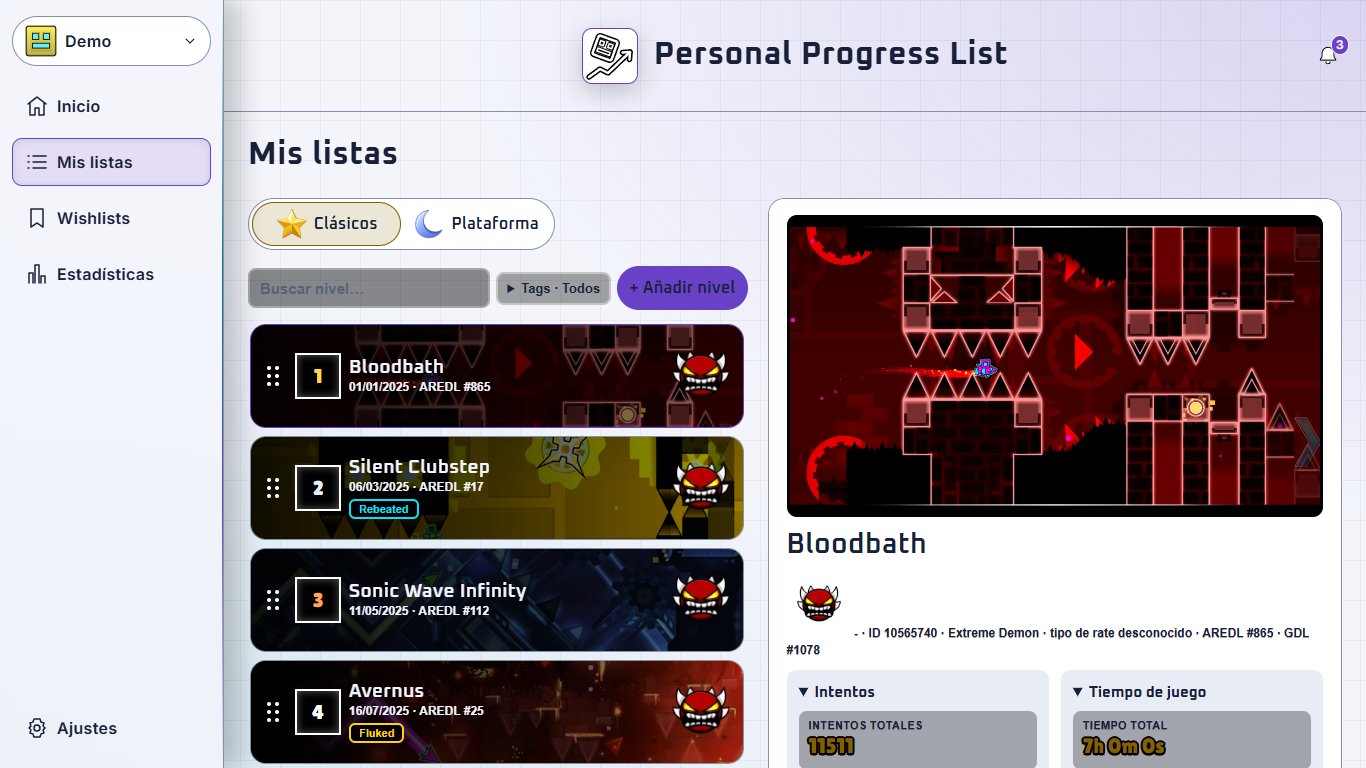
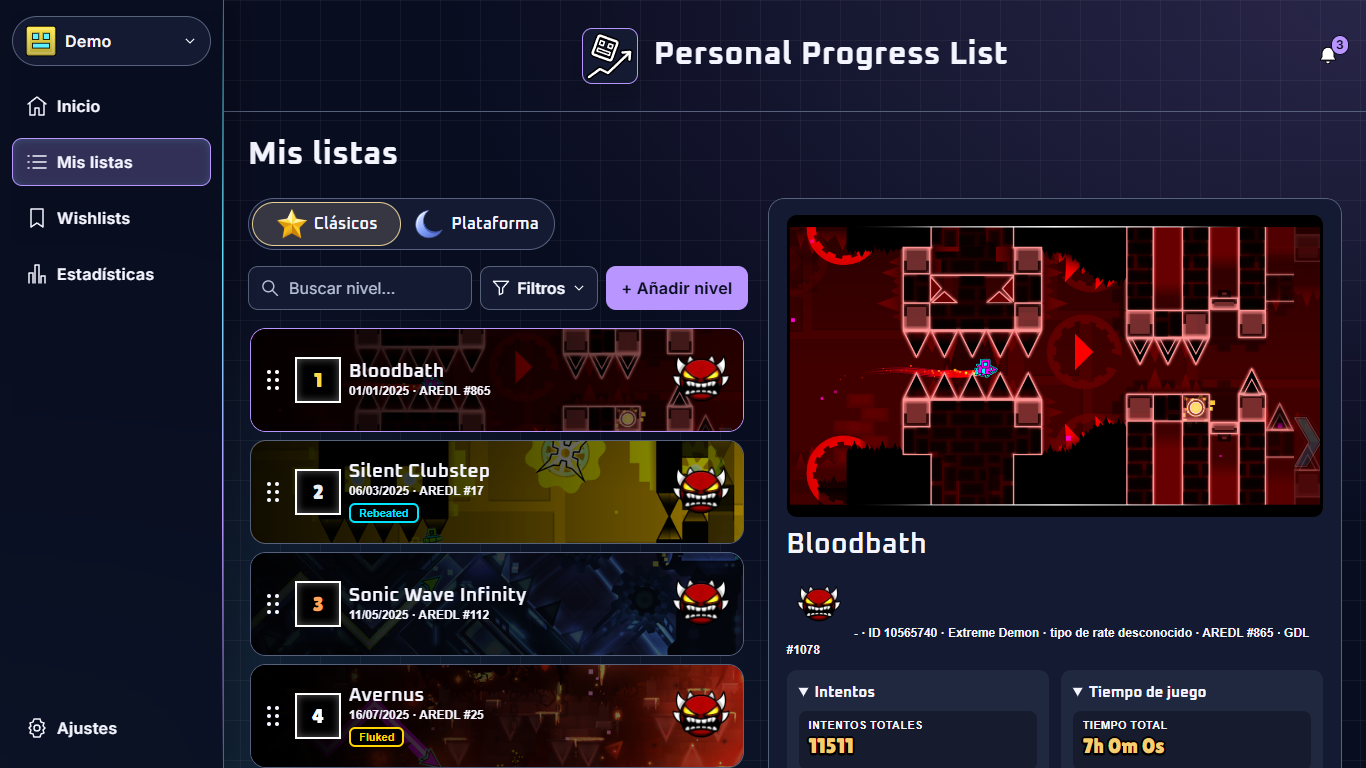
Complete the themed search and filter toolbar for My Lists

diff --git a/js/i18n.js b/js/i18n.js
@@ -94,7 +94,7 @@ const TRANSLATIONS = {
         compare: 'Comparar', compareClose: 'Cerrar comparación', compareLevelOne: 'Nivel 1', compareLevelTwo: 'Nivel 2', compareSearch: 'Nombre o ID', compareClear: 'Quitar {level}',
         compareHint: 'Elige dos niveles de la lista o búscalos aquí.', compareWaiting: 'Elige el segundo nivel para compararlos.',
         timelineAttempts: 'Intentos por nivel', timelinePlaytime: 'Tiempo de juego por nivel', timelineMetric: 'Métrica de la línea de tiempo',
-        classic: 'Clásicos', platform: 'Plataforma', stats: 'Estadísticas', add: '+ Añadir', search: 'Buscar nivel…', unplaced: 'Sin colocar', pending: 'Pendiente de ubicación', name: 'Nombre', lid: 'ID del nivel', creator: 'Creador (publisher)', diff: 'Dificultad', pos: 'Posición en mi top', availablePositions: 'Posiciones disponibles: {min}–{max}', attC: 'Intentos en copia', attN: 'Intentos en normal', attT: 'Intentos totales', tN: 'Tiempo normal', tP: 'Tiempo práctica', tPC: 'Tiempo en copia o StartPos', tT: 'Tiempo total', date: 'Fecha de completado', link: 'Video (YouTube)', enj: 'Disfrutabilidad', lik: 'Nivel de agrado', tags: 'Tags', notes: 'Notas', deaths: 'Muertes por porcentaje', best: 'Mejor % antes de pasarlo', save: 'Guardar', del: 'Eliminar', edit: 'Editar', close: 'Cerrar', lv: 'Niveles', hrs: 'Horas', avg: 'Intentos por nivel', most: 'Más intentos', byD: 'Por dificultad', byY: 'Completados por año', tl: 'Línea de tiempo', kind: 'Lista', confirm: '¿Eliminar este nivel?', emptyListTitle: 'Aún no hay niveles', emptyListText: 'Añade el primer nivel que hayas superado para empezar tu ranking.', dh: 'Muertes por porcentaje', found: '✓ Encontrado en la lista', dU: 'muertes', att: 'intentos', tagsT: 'Gestionar tags', by: 'por', gdlTop: 'Top en Global Demonlist', ap: 'Top en AREDL', apPlatform: 'Top en AREPL', s1: 'Información del nivel', s2: 'Posiciones', s3: 'Intentos y tiempo', s4: 'Completado', s5: 'Valoración', s6: 'Notas y muertes', newTag: 'Nuevo tag', confirmTag: '¿Quitar este tag de todos los niveles?',
+        classic: 'Clásicos', platform: 'Plataforma', stats: 'Estadísticas', add: '+ Añadir', listFilters: 'Filtros', search: 'Buscar nivel…', unplaced: 'Sin colocar', pending: 'Pendiente de ubicación', name: 'Nombre', lid: 'ID del nivel', creator: 'Creador (publisher)', diff: 'Dificultad', pos: 'Posición en mi top', availablePositions: 'Posiciones disponibles: {min}–{max}', attC: 'Intentos en copia', attN: 'Intentos en normal', attT: 'Intentos totales', tN: 'Tiempo normal', tP: 'Tiempo práctica', tPC: 'Tiempo en copia o StartPos', tT: 'Tiempo total', date: 'Fecha de completado', link: 'Video (YouTube)', enj: 'Disfrutabilidad', lik: 'Nivel de agrado', tags: 'Tags', notes: 'Notas', deaths: 'Muertes por porcentaje', best: 'Mejor % antes de pasarlo', save: 'Guardar', del: 'Eliminar', edit: 'Editar', close: 'Cerrar', lv: 'Niveles', hrs: 'Horas', avg: 'Intentos por nivel', most: 'Más intentos', byD: 'Por dificultad', byY: 'Completados por año', tl: 'Línea de tiempo', kind: 'Lista', confirm: '¿Eliminar este nivel?', emptyListTitle: 'Aún no hay niveles', emptyListText: 'Añade el primer nivel que hayas superado para empezar tu ranking.', dh: 'Muertes por porcentaje', found: '✓ Encontrado en la lista', dU: 'muertes', att: 'intentos', tagsT: 'Gestionar tags', by: 'por', gdlTop: 'Top en Global Demonlist', ap: 'Top en AREDL', apPlatform: 'Top en AREPL', s1: 'Información del nivel', s2: 'Posiciones', s3: 'Intentos y tiempo', s4: 'Completado', s5: 'Valoración', s6: 'Notas y muertes', newTag: 'Nuevo tag', confirmTag: '¿Quitar este tag de todos los niveles?',
         didYouMean: '¿Quisiste decir:', wish: 'Wishlists', st_todo: 'Sin empezar', st_prog: 'En progreso', st_done: 'Completado', first: 'Primeros pasos', pname: 'Nombre del perfil', bell: 'Notificaciones', nonot: 'Todo en orden ✓', aUnp: 'Sin colocar', aWish: 'Completado en wishlist, falta añadirlo a tu lista', aNoId: 'Niveles sin ID (sin miniatura)', wnew: '+ Nueva wishlist', wren: 'Renombrar', wdelL: 'Eliminar lista', wname: 'Nombre de la wishlist', addLevel: '+ Añadir nivel', emptyWishTitle: 'Tu wishlist está vacía', emptyWishText: 'Añade los niveles que quieres jugar y sigue aquí tu progreso.', tgs: 'Buscar tag…', sa: 'Intentos', sT: 'Tiempo de juego', sh: 'Tags y notas', noAdditionalDetails: 'Sin datos adicionales', wconf: '¿Eliminar?', noWL: 'Aún no hay wishlists',
         theme: 'Tema de color', status: 'Estado', color: 'Color', filterTag: 'Filtrar por tag: {t}',
         home: 'Inicio', lists: 'Mis listas', listEmpty: 'Todavía no hay niveles', viewWishlists: 'Ver todas', viewStats: 'Ver estadísticas completas',
@@ -208,7 +208,7 @@ const TRANSLATIONS = {
         compare: 'Compare', compareClose: 'Close comparison', compareLevelOne: 'Level 1', compareLevelTwo: 'Level 2', compareSearch: 'Name or ID', compareClear: 'Clear {level}',
         compareHint: 'Pick two levels from the list or search for them here.', compareWaiting: 'Pick a second level to compare.',
         timelineAttempts: 'Attempts per level', timelinePlaytime: 'Playtime per level', timelineMetric: 'Timeline metric',
-        classic: 'Classic', platform: 'Platformer', stats: 'Statistics', add: '+ Add', search: 'Search level…', unplaced: 'Unplaced', pending: 'Awaiting placement', name: 'Name', lid: 'Level ID', creator: 'Creator (publisher)', diff: 'Difficulty', pos: 'Position in my top', availablePositions: 'Available positions: {min}–{max}', attC: 'Copy attempts', attN: 'Normal attempts', attT: 'Total attempts', tN: 'Normal time', tP: 'Practice time', tPC: 'Copy or StartPos playtime', tT: 'Total time', date: 'Completion date', link: 'Video (YouTube)', enj: 'Enjoyment', lik: 'Level appeal', tags: 'Tags', notes: 'Notes', deaths: 'Deaths per percent', best: 'Best % before beating it', save: 'Save', del: 'Delete', edit: 'Edit', close: 'Close', lv: 'Levels', hrs: 'Hours', avg: 'Attempts per level', most: 'Most attempts', byD: 'By difficulty', byY: 'Completed per year', tl: 'Timeline', kind: 'List', confirm: 'Delete this level?', emptyListTitle: 'No levels yet', emptyListText: 'Add the first level you have beaten to start your ranking.', dh: 'Deaths per percent', found: '✓ Found in the list', dU: 'deaths', att: 'attempts', tagsT: 'Manage tags', by: 'by', gdlTop: 'Top in Global Demonlist', ap: 'Top in AREDL', apPlatform: 'Top in AREPL', s1: 'Level info', s2: 'Rankings', s3: 'Attempts & time', s4: 'Completion', s5: 'Rating', s6: 'Notes & deaths', newTag: 'New tag', confirmTag: 'Remove this tag from all levels?',
+        classic: 'Classic', platform: 'Platformer', stats: 'Statistics', add: '+ Add', listFilters: 'Filters', search: 'Search level…', unplaced: 'Unplaced', pending: 'Awaiting placement', name: 'Name', lid: 'Level ID', creator: 'Creator (publisher)', diff: 'Difficulty', pos: 'Position in my top', availablePositions: 'Available positions: {min}–{max}', attC: 'Copy attempts', attN: 'Normal attempts', attT: 'Total attempts', tN: 'Normal time', tP: 'Practice time', tPC: 'Copy or StartPos playtime', tT: 'Total time', date: 'Completion date', link: 'Video (YouTube)', enj: 'Enjoyment', lik: 'Level appeal', tags: 'Tags', notes: 'Notes', deaths: 'Deaths per percent', best: 'Best % before beating it', save: 'Save', del: 'Delete', edit: 'Edit', close: 'Close', lv: 'Levels', hrs: 'Hours', avg: 'Attempts per level', most: 'Most attempts', byD: 'By difficulty', byY: 'Completed per year', tl: 'Timeline', kind: 'List', confirm: 'Delete this level?', emptyListTitle: 'No levels yet', emptyListText: 'Add the first level you have beaten to start your ranking.', dh: 'Deaths per percent', found: '✓ Found in the list', dU: 'deaths', att: 'attempts', tagsT: 'Manage tags', by: 'by', gdlTop: 'Top in Global Demonlist', ap: 'Top in AREDL', apPlatform: 'Top in AREPL', s1: 'Level info', s2: 'Rankings', s3: 'Attempts & time', s4: 'Completion', s5: 'Rating', s6: 'Notes & deaths', newTag: 'New tag', confirmTag: 'Remove this tag from all levels?',
         didYouMean: 'Did you mean:', wish: 'Wishlists', st_todo: 'Not started', st_prog: 'In progress', st_done: 'Completed', first: 'First steps', pname: 'Profile name', bell: 'Notifications', nonot: 'All good ✓', aUnp: 'Unplaced', aWish: 'Completed in wishlist, not yet added to your list', aNoId: 'Levels without ID (no thumbnail)', wnew: '+ New wishlist', wren: 'Rename', wdelL: 'Delete list', wname: 'Wishlist name', addLevel: '+ Add level', emptyWishTitle: 'Your wishlist is empty', emptyWishText: 'Add the levels you want to play and track your progress here.', tgs: 'Search tag…', sa: 'Attempts', sT: 'Play time', sh: 'Tags & notes', noAdditionalDetails: 'No additional details', wconf: 'Delete?', noWL: 'No wishlists yet',
         theme: 'Colour theme', status: 'Status', color: 'Color', filterTag: 'Filter by tag: {t}',
         home: 'Home', lists: 'My lists', listEmpty: 'No levels yet', viewWishlists: 'View all', viewStats: 'View full statistics',

diff --git a/js/components/levels.js b/js/components/levels.js
@@ -167,7 +167,7 @@ function levelFromForm(form) {
     };
 }
 
-const listTagSummary = () => t('tags') + ' · ' + (!ui.tagFilter.length ? t('f_all') : ui.tagFilter.length == 1 ? ui.tagFilter[0] : ui.tagFilter.length);
+const listTagSummary = () => !ui.tagFilter.length ? t('listFilters') : t('listFilters') + ' · ' + (ui.tagFilter.length == 1 ? ui.tagFilter[0] : ui.tagFilter.length);
 
 /** Updates the tag dropdown and its clear button in place, so an open dropdown keeps its state and focus. */
 function renderListTagFilters() {
@@ -175,7 +175,7 @@ function renderListTagFilters() {
     if (!dropdown)
         return;
     dropdown.querySelectorAll('input').forEach(input => input.checked = ui.tagFilter.includes(input.value));
-    dropdown.querySelector('summary').textContent = listTagSummary();
+    dropdown.querySelector('.filter-label').textContent = listTagSummary();
     qs('.lh [data-act=ct]').hidden = !ui.tagFilter.length;
 }
 
@@ -189,7 +189,7 @@ function setListTagFilter() {
 function lcol() {
     const options = listTagOptions(profile.levels.filter(level => level.kind == ui.tab), ui.tagFilter);
     const modes = ['classic', 'platform'].map(kind => `<button type=button data-act=tab data-v=${kind} aria-pressed=${ui.tab == kind}${ui.tab == kind ? ' disabled' : ''}><img src="assets/modes/${kind}.svg" alt="" width=32 height=32> ${t(kind)}</button>`).join('');
-    return `<div class=mode-switch role=group aria-label="${t('lists')}">${modes}</div><div class=lh><input id=q type=search placeholder="${t('search')}" aria-label="${t('search')}" value="${escapeHtml(ui.q)}">${options.length ? `<details class=ms><summary>${escapeHtml(listTagSummary())}</summary><div class=msp>${options.map(name => `<label><input type=checkbox name=tagf value="${escapeHtml(name)}"${ui.tagFilter.includes(name) ? ' checked' : ''}><span class=chip style="${tagStyle(name)}">${escapeHtml(name)}</span></label>`).join('')}</div></details><button type=button class="xs dg" data-act=ct aria-label="${t('clearTags')}" title="${t('clearTags')}"${ui.tagFilter.length ? '' : ' hidden'}>${ICONS.del}</button>` : ''}${canEdit() ? `<button type=button class=list-add data-act=add>+ ${t('palAdd')}</button>` : ''}</div><div id=lw>${list()}</div>`;
+    return `<div class=mode-switch role=group aria-label="${t('lists')}">${modes}</div><div class=lh><label class=list-search>${ICONS.listSearch}<input id=q type=search placeholder="${t('search')}" aria-label="${t('search')}" value="${escapeHtml(ui.q)}"></label>${options.length ? `<details class=ms><summary>${ICONS.listFilter}<span class=filter-label>${escapeHtml(listTagSummary())}</span>${ICONS.chevronDown}</summary><div class=msp>${options.map(name => `<label><input type=checkbox name=tagf value="${escapeHtml(name)}"${ui.tagFilter.includes(name) ? ' checked' : ''}><i class=tag-dot aria-hidden=true style="background:${tagColor(name)}"></i><span class=filter-label>${escapeHtml(name)}</span></label>`).join('')}</div></details><button type=button class=list-clear data-act=ct aria-label="${t('clearTags')}" title="${t('clearTags')}"${ui.tagFilter.length ? '' : ' hidden'}>${ICONS.listClear}</button>` : ''}${canEdit() ? `<button type=button class=list-add data-act=add>+ ${t('palAdd')}</button>` : ''}</div><div id=lw>${list()}</div>`;
 }
 
 /** Right column with level details, an editing form or an empty prompt. */

diff --git a/css/styles.css b/css/styles.css
@@ -837,7 +837,7 @@ dialog.modal::backdrop {
   background-image: none;
 }
 
-.list-surface :is(.nm, h2, .mode-switch button, .list-add, .level-section summary) {
+.list-surface :is(.nm, h2, .mode-switch button, .level-section summary) {
   color: inherit;
   font-family: var(--font-display);
   -webkit-text-stroke: 0;
@@ -974,28 +974,91 @@ dialog.modal::backdrop {
   position: relative;
   display: flex;
   flex-wrap: wrap;
+  gap: 8px;
   align-items: center;
-  gap: 6px;
-  margin-bottom: 12px;
+  margin-bottom: var(--space-16);
+  font-family: var(--font-ui);
 }
 
-.lh #q {
+.lh .list-search {
+  position: relative;
   flex: 1 1 160px;
-  min-width: 160px;
+  min-width: 0;
+  margin: 0;
 }
 
-.lh .ms {
-  max-width: min(220px, calc(100% - 40px));
+.lh .list-search > svg {
+  position: absolute;
+  left: 12px;
+  top: 50%;
+  transform: translateY(-50%);
+  pointer-events: none;
+  color: var(--color-text-muted);
 }
 
-.lh .ms summary, .lh .msp .chip {
-  overflow: hidden;
-  text-overflow: ellipsis;
-  white-space: nowrap;
+.lh .i { width: 20px; height: 20px; flex: none; }
+
+.lh #q, .lh .ms summary, .lh .list-clear, .lh .list-add {
+  box-sizing: border-box;
+  min-height: 44px;
+  margin: 0;
+  border: 1px solid var(--color-border);
+  border-radius: var(--radius-control);
+  background: var(--color-surface);
+  color: var(--color-text);
+  font: 600 1rem/1.25 var(--font-ui);
+  -webkit-text-stroke: 0;
+  box-shadow: none;
 }
 
-.lh .msp .chip {
-  display: block;
+.lh #q { width: 100%; padding: 8px 12px 8px 40px; font-weight: 400; }
+.lh #q::placeholder { color: var(--color-text-muted); opacity: 1; }
+.lh .ms { max-width: min(100%, 16rem); }
+.lh .ms summary { display: flex; align-items: center; gap: 6px; padding: 8px 10px; list-style: none; }
+.lh .ms summary::-webkit-details-marker { display: none; }
+.lh .ms summary > svg:last-child { width: 16px; }
+.lh .ms[open] summary > svg:last-child { transform: rotate(180deg); }
+.lh .filter-label { overflow: hidden; text-overflow: ellipsis; white-space: nowrap; }
+.lh .ms[open] summary, .lh .ms:has(input:checked) summary { border-color: var(--color-accent); }
+.lh .list-clear { width: 44px; padding: 0; }
+.lh .list-add {
+  padding: 8px 14px;
+  background: var(--color-accent);
+  color: var(--color-bg);
+  border-color: transparent;
+}
+.lh :is(input, summary, button):focus-visible { outline: 2px solid var(--color-focus); outline-offset: 2px; }
+.lh .ms .msp {
+  margin-top: 4px;
+  border: 1px solid var(--color-border);
+  border-radius: var(--radius-control);
+  background: var(--color-surface-elevated);
+  box-shadow: 0 6px 18px rgb(0 0 0 / 20%);
+}
+.lh .ms .msp input[type=checkbox] {
+  all: revert;
+  width: 18px;
+  height: 18px;
+  flex: none;
+  accent-color: var(--color-accent);
+}
+
+.lh .msp .tag-dot {
+  width: 10px;
+  height: 10px;
+  border-radius: 50%;
+  flex: none;
+  border: 1px solid var(--color-border);
+}
+
+.lh .ms .msp label {
+  color: var(--color-text);
+  font: 500 0.95rem/1.3 var(--font-ui);
+}
+
+.lh .ms .msp label:is(:hover, :focus-within) {
+  color: var(--color-text);
+  background: var(--color-surface);
 }
 
 .lh [hidden] {
@@ -1206,7 +1269,7 @@ dialog.modal::backdrop {
 @media (max-width: 900px) {
   .split .lv { height: 96px; }
 
-  .lh #q {
+  .lh .list-search {
     flex-basis: 100%;
   }
 

diff --git a/tests/tag-filter.test.js b/tests/tag-filter.test.js
@@ -91,9 +91,9 @@ test('renaming a tag renames it inside the active filter', () => {
 test('the dropdown summary names one selected tag and counts several', () => {
     const { app } = createApp();
     const summary = selection => app(`ui.tagFilter = ${JSON.stringify(selection)}; listTagSummary()`);
-    assert.equal(summary([]), 'Tags · Todos');
-    assert.equal(summary(['Fluked']), 'Tags · Fluked');
-    assert.equal(summary(['Fluked', 'Rebeated']), 'Tags · 2');
+    assert.equal(summary([]), 'Filtros');
+    assert.equal(summary(['Fluked']), 'Filtros · Fluked');
+    assert.equal(summary(['Fluked', 'Rebeated']), 'Filtros · 2');
 });
 
 test('renderListTagFilters syncs the checkboxes, summary and clear button in place', () => {
@@ -103,7 +103,7 @@ test('renderListTagFilters syncs the checkboxes, summary and clear button in pla
     dom['.lh [data-act=ct]'] = clear;
     app('ui.tagFilter = ["B"]; renderListTagFilters()');
     assert.deepEqual(inputs.map(input => input.checked), [false, true]);
-    assert.equal(summary.textContent, 'Tags · B');
+    assert.equal(summary.textContent, 'Filtros · B');
     assert.equal(clear.hidden, false);
     app('ui.tagFilter = []; renderListTagFilters()');
     assert.deepEqual(inputs.map(input => input.checked), [false, false]);
@@ -121,7 +121,7 @@ test('the list header offers only its own tags, escaped, with the selection chec
     const classic = app('lcol()');
     assert.deepEqual([...classic.matchAll(/name=tagf value="([^"]*)"/g)].map(m => m[1]), ['B', 'x&quot;y']);
     assert.match(classic, /value="B" checked>/);
-    assert.match(classic, /<summary>Tags · B<\/summary>/);
+    assert.match(classic, /class=filter-label>Filtros · B<\/span>/);
     assert.match(classic, /data-act=ct aria-label="Quitar filtros de tags" title="Quitar filtros de tags">/);
     assert.doesNotMatch(classic, /name=tagf value="Plat"/);
     app('ui.tab = "platform"; ui.tagFilter = []');

diff --git a/js/config.js b/js/config.js
@@ -3,6 +3,9 @@
  */
 
 const ICONS = {
+    listSearch: '<svg class=i viewBox="0 0 24 24" fill=none stroke=currentColor stroke-width=1.7 stroke-linecap=round stroke-linejoin=round aria-hidden=true><circle cx=10 cy=10 r=6.5 /><path d="m15 15 6 6"/></svg>',
+    listFilter: '<svg class=i viewBox="0 0 24 24" fill=none stroke=currentColor stroke-width=1.7 stroke-linecap=round stroke-linejoin=round aria-hidden=true><path d="M3 4h18l-7 8v6l-4 2v-8z"/></svg>',
+    listClear: '<svg class=i viewBox="0 0 24 24" fill=none stroke=currentColor stroke-width=1.7 stroke-linecap=round stroke-linejoin=round aria-hidden=true><path d="m6 6 12 12M18 6 6 18"/></svg>',
     navHome: '<svg class=i viewBox="0 0 24 24" fill=none stroke=currentColor stroke-width=1.5 stroke-linecap=round stroke-linejoin=round aria-hidden=true><path d="M3 10 12 3l9 7M5 9v12h5v-7h4v7h5V9"/></svg>',
     navLists: '<svg class=i viewBox="0 0 24 24" fill=none stroke=currentColor stroke-width=1.5 stroke-linecap=round stroke-linejoin=round aria-hidden=true><path d="M8 6h13M8 12h13M8 18h13M3 6h1M3 12h1M3 18h1"/></svg>',
     navWish: '<svg class=i viewBox="0 0 24 24" fill=none stroke=currentColor stroke-width=1.5 stroke-linecap=round stroke-linejoin=round aria-hidden=true><path d="M6 3h12v18l-6-4-6 4Z"/></svg>',
